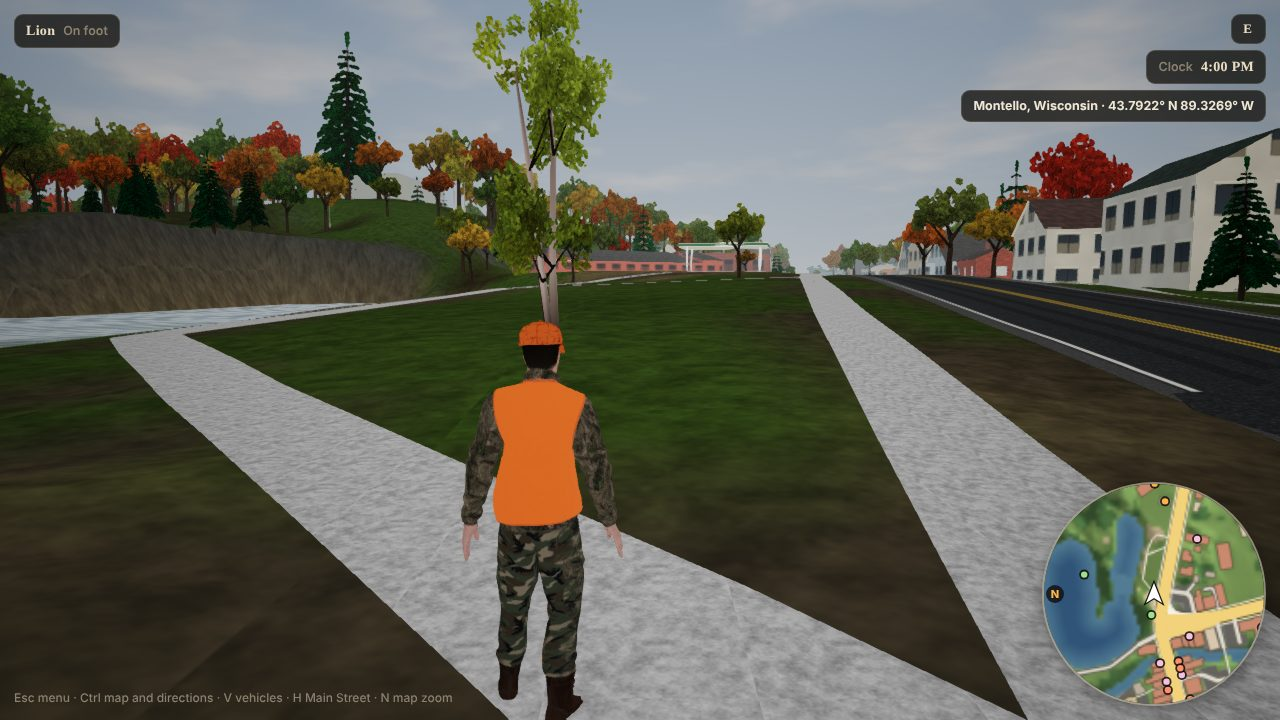
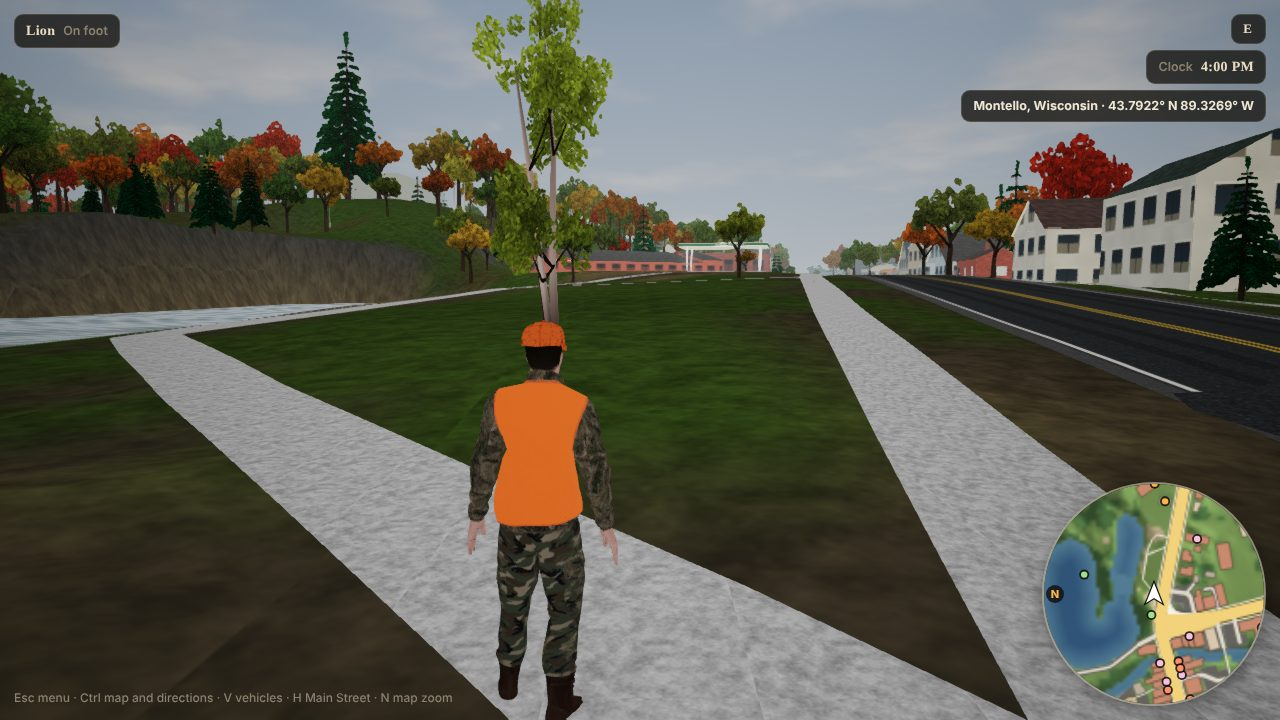
Tello: follow Fox Lake's current lighting and the gloss rule
Fox Lake's look, shadow map size and woods-floor colours move to
modules-src/foxlake/look.ts and Tello imports them, so a lighting change to
Fox Lake reaches Tello without a copy. Tello's ground, road and bridge
materials get the ground lift and lose their specular highlight.

Claude-Session: https://claude.ai/code/session_019DwUj9yzvg9tR1iyVtTF4G

diff --git a/modules-src/tello/index.ts b/modules-src/tello/index.ts
@@ -8,6 +8,7 @@ import { Game } from '../rackreel/game/Game'
 import { store } from '../maplestreet/src/core/Storage'
 import { isValidVehicleRecord, registerCustomVehicles, type CustomVehicleRecord } from '../maplestreet/shared/CustomVehicles'
 import { BUNDLED_VEHICLES } from '../maplestreet/shared/BundledVehicles'
+import { FOX_LAKE_LOOK, FOX_LAKE_SHADOW_MAP } from '../foxlake/look'
 import { loadMap } from './data/MapData'
 import { TelloLand, TelloTerrain } from './region'
 import { TelloTown } from './town/TelloTown'
@@ -17,11 +18,6 @@ declare global {
     __tello?: { game: Game; town: TelloTown; land: TelloLand }
   }
 }
-
-/** Fox Lake's picture: light sun shadows, shaded sides lifted by a stronger sky fill, a night 15 % brighter, and matte characters. */
-const LOOK = { shadowDarkness: 0.9, fill: 1.4, nightBrightness: 1.15, matteCharacters: true }
-/** Half Rack & Reel's shadow map, as in Fox Lake: a town has far more casters, and the soft shadows hide the coarser texels. */
-const SHADOW_MAP = 1024
 
 const online = location.protocol === 'https:' || location.protocol === 'http:'
 const BUNDLED_IDS = new Set(BUNDLED_VEHICLES.map((r) => r.id))
@@ -56,7 +52,7 @@ async function boot(): Promise<void> {
   const [map] = await Promise.all([loadMap(new URL('./tello/', location.href).href), registerVehicles()])
   const land = new TelloLand(map.doc, map.grids)
   const town = new TelloTown(land)
-  const game = new Game(canvas, { terrain: new TelloTerrain(land), extension: town, gearAtCabin: true, profile: 'tello', look: LOOK, shadowMapSize: SHADOW_MAP })
+  const game = new Game(canvas, { terrain: new TelloTerrain(land), extension: town, gearAtCabin: true, profile: 'tello', look: FOX_LAKE_LOOK, shadowMapSize: FOX_LAKE_SHADOW_MAP })
   window.__tello = { game, town, land }
   await game.start()
 }

diff --git a/modules-src/foxlake/index.ts b/modules-src/foxlake/index.ts
@@ -12,6 +12,7 @@ import { store } from '../maplestreet/src/core/Storage'
 import { isValidVehicleRecord, registerCustomVehicles, type CustomVehicleRecord } from '../maplestreet/shared/CustomVehicles'
 import { isValidRecord, registerCustomItems, type CustomItemRecord } from '../maplestreet/shared/CustomItems'
 import { BUNDLED_VEHICLES } from '../maplestreet/shared/BundledVehicles'
+import { FOX_LAKE_LOOK, FOX_LAKE_SHADOW_MAP } from './look'
 import { FOX_LAKE_SHAPE } from './region'
 import { FoxLakeTown } from './town/FoxLakeTown'
 
@@ -20,19 +21,6 @@ declare global {
     __foxlake?: { game: Game; town: FoxLakeTown }
   }
 }
-
-/**
- * A soft, even picture: a gentler sun with a stronger sky fill, so lit and shaded sides sit close together and nothing
- * falls into murk; very faint sun shadows (0.979: 30 % of the earlier 0.93's strength); a night about 32 % brighter
- * than Rack & Reel's (1.15 × 1.15); and matte characters in their own colours (plain materials, not the physically
- * based cloth, which washed people out to grey under the town's sky light).
- * The ground and roads get a share of their own colour back (`groundLift`), so the dark needle-and-moss floor under
- * the woods, slopes facing away from the sun and the ground at night never fall to a burnt-looking black.
- * All of it is light levels, so it costs no draw calls, textures or shadow passes.
- */
-const FOX_LAKE_LOOK = { shadowDarkness: 0.979, key: 0.8, fill: 1.65, nightBrightness: 1.32, matteCharacters: true, groundLift: { day: 0.22, night: 0.3 } }
-/** Half Rack & Reel's shadow map: the town has far more casters, and the soft blurred shadows hide the coarser texels. */
-const FOX_LAKE_SHADOW_MAP = 1024
 
 const online = location.protocol === 'https:' || location.protocol === 'http:'
 

diff --git a/modules-src/foxlake/look.ts b/modules-src/foxlake/look.ts
@@ -1,0 +1,19 @@
+/**
+ * Fox Lake's picture, kept in one file so worlds built on the same engine (Tello) follow it without a copy.
+ */
+
+/**
+ * A soft, even picture: a gentler sun with a stronger sky fill, so lit and shaded sides sit close together and nothing
+ * falls into murk; very faint sun shadows (0.979: 30 % of the earlier 0.93's strength); a night about 32 % brighter
+ * than Rack & Reel's (1.15 × 1.15); and matte characters in their own colours (plain materials, not the physically
+ * based cloth, which washed people out to grey under the town's sky light).
+ * The ground and roads get a share of their own colour back (`groundLift`), so the dark needle-and-moss floor under
+ * the woods, slopes facing away from the sun and the ground at night never fall to a burnt-looking black.
+ * All of it is light levels, so it costs no draw calls, textures or shadow passes.
+ */
+export const FOX_LAKE_LOOK = { shadowDarkness: 0.979, key: 0.8, fill: 1.65, nightBrightness: 1.32, matteCharacters: true, groundLift: { day: 0.22, night: 0.3 } }
+/** Half Rack & Reel's shadow map: the town has far more casters, and the soft blurred shadows hide the coarser texels. */
+export const FOX_LAKE_SHADOW_MAP = 1024
+
+/** A lighter needle-and-leaf-litter floor than the lake country's own, so the ground under the woods reads as forest floor, not scorched earth. */
+export const FOX_LAKE_WOODS_FLOOR = { needles: [0.47, 0.4, 0.27], moss: [0.37, 0.44, 0.22] }

diff --git a/modules-src/tello/world/Ground.ts b/modules-src/tello/world/Ground.ts
@@ -11,6 +11,7 @@ import { StandardMaterial } from '@babylonjs/core/Materials/standardMaterial'
 import { Mesh } from '@babylonjs/core/Meshes/mesh'
 import { VertexData } from '@babylonjs/core/Meshes/mesh.vertexData'
 import type { Scene } from '@babylonjs/core/scene'
+import { FOX_LAKE_WOODS_FLOOR } from '../../foxlake/look'
 import { fbm } from '../../rackreel/world/Terrain'
 import { detailTexture } from '../../rackreel/world/World'
 import { COVER } from '../data/MapData'
@@ -23,8 +24,9 @@ const mown: Rgb = [0.36, 0.47, 0.2]
 const meadow: Rgb = [0.42, 0.47, 0.22]
 const dry: Rgb = [0.56, 0.52, 0.3]
 const stubble: Rgb = [0.62, 0.56, 0.36]
-const needles: Rgb = [0.33, 0.27, 0.17]
-const moss: Rgb = [0.25, 0.32, 0.14]
+const rgb = (c: readonly number[]): Rgb => [c[0], c[1], c[2]]
+const needles = rgb(FOX_LAKE_WOODS_FLOOR.needles)
+const moss = rgb(FOX_LAKE_WOODS_FLOOR.moss)
 const marsh: Rgb = [0.36, 0.38, 0.2]
 const sand: Rgb = [0.62, 0.55, 0.42]
 const lakebed: Rgb = [0.36, 0.32, 0.22]
@@ -75,7 +77,7 @@ export function groundSink(clear: number): number {
 export function buildGround(scene: Scene, land: TelloLand): Mesh[] {
   const mat = new StandardMaterial('tello-ground-mat', scene)
   mat.diffuseTexture = detailTexture(scene)
-  mat.specularColor = new Color3(0.02, 0.02, 0.02)
+  mat.specularColor = Color3.Black()
   mat.ambientColor = new Color3(0.4, 0.4, 0.4)
   mat.freeze()
   const out: Mesh[] = []

diff --git a/modules-src/foxlake/region.ts b/modules-src/foxlake/region.ts
@@ -19,6 +19,7 @@ import type { OutsideLand, TerrainShape } from '../rackreel/world/Terrain'
 import { MAP_BOUNDS, WORLD_HALF } from '../maplestreet/shared/WorldLayout'
 import { HIGHWAY_GAPS, LAKE_ROAD_APRON, carveLakeRoad, lakeRoadPath } from './country/Roads'
 import { ROADSIDE, lotRect } from './roadside/RoadsideLayout'
+import { FOX_LAKE_WOODS_FLOOR } from './look'
 
 /** Ground level of the town in the scene (above the lake, level with the interstate's north end). */
 export const TOWN_Y = 2
@@ -215,9 +216,6 @@ export const TOWN_LAND: OutsideLand = {
     return rectDistance(x, z, BUILT_UP) > 4 && roadClear(x, z) > 0.8
   },
 }
-
-/** A lighter needle-and-leaf-litter floor than the lake country's own, so the ground under the woods reads as forest floor, not scorched earth. */
-const FOX_LAKE_WOODS_FLOOR = { needles: [0.47, 0.4, 0.27], moss: [0.37, 0.44, 0.22] }
 
 const rawFox = (x: number, z: number) => rawHeight(x, z, FOX_LAKE_SHAPE)
 

diff --git a/modules-src/tello/world/Roads.ts b/modules-src/tello/world/Roads.ts
@@ -35,7 +35,7 @@ function surface(scene: Scene, name: string, texture: Texture, tint?: Color3): S
   const mat = new StandardMaterial(`tello-${name}`, scene)
   mat.diffuseTexture = texture
   if (tint) mat.diffuseColor = tint
-  mat.specularColor = new Color3(0.04, 0.04, 0.04)
+  mat.specularColor = Color3.Black()
   mat.ambientColor = new Color3(0.35, 0.35, 0.35)
   mat.backFaceCulling = false
   mat.zOffset = -2
@@ -251,7 +251,7 @@ export function buildBridges(scene: Scene, land: TelloLand, cast: (mesh: Mesh) =
   const mat = new StandardMaterial('tello-bridge', scene)
   mat.diffuseTexture = detailTexture(scene)
   mat.diffuseColor = new Color3(0.66, 0.65, 0.62)
-  mat.specularColor = new Color3(0.03, 0.03, 0.03)
+  mat.specularColor = Color3.Black()
   mat.ambientColor = new Color3(0.35, 0.35, 0.35)
   mat.backFaceCulling = false
   const data = new VertexData()

diff --git a/modules-src/tello/world/Buildings.ts b/modules-src/tello/world/Buildings.ts
@@ -104,7 +104,7 @@ export function buildBuildings(root: TransformNode, mats: Mats, physics: Physics
     door: mats.textured('door', 'planks', { color: 0x6b4a2e, tile: 1 }),
     garage: mats.textured('garage', 'garage', { color: 0xf0eee8 }),
     glass: mats.glass('glass-house', 0xa9c3d1, 0.38),
-    lit: mats.plain('t-window-lit', { color: 0x38424b, gloss: 0.8, emissive: 0xffc98a, emissiveIntensity: 0 }),
+    lit: mats.plain('t-window-lit', { color: 0x38424b, gloss: 0.8, keepGloss: true, emissive: 0xffc98a, emissiveIntensity: 0 }),
     store: mats.facade('store'),
     civic: mats.facade('brick'),
     post: mats.plain('t-post', { color: 0xe6e6e2, gloss: 0.45 }),

diff --git a/modules-src/rackreel/world/Lighting.ts b/modules-src/rackreel/world/Lighting.ts
@@ -52,7 +52,7 @@ export interface LightingLook {
   groundLift?: { day: number; night: number }
 }
 
-const GROUND_MATERIAL = /^(terrain-mat|town-ground-mat|county-road-mat|highway-road-mat|highway-concrete-mat)$/
+const GROUND_MATERIAL = /^(terrain-mat|town-ground-mat|county-road-mat|highway-road-mat|highway-concrete-mat|tello-.+)$/
 
 function smooth(e0: number, e1: number, x: number): number {
   const t = Math.min(1, Math.max(0, (x - e0) / (e1 - e0)))

diff --git a/AGENTS.md b/AGENTS.md
@@ -53,7 +53,7 @@ TanStack Start / React 19 site on Cloudflare Workers with four areas: a creative
 - Fox Plains (`public/modules/maplestreet.html`, module id `maplestreet`) is generated: edit the TypeScript in `modules-src/maplestreet/` (`src/` client, `shared/` rules, `colyseus-server/` optional Node room); `pnpm build` rebuilds it with the other modules. It uses the bundled three.js WebGPU build (WebGL2 fallback) and Rapier 0.14 compat. There is no start screen: the page goes straight into the shared open world under the library username, or a fixed `Guest-xxxxx` for this browser (`?solo=1` still runs solo mode with unlimited money, `unlimitedMoney`). Everyone starts with the bundled Maple Hauler pickup (`STARTER_TRUCK` in `shared/Economy.ts`). Performance: static colliders are streamed around the player (`Physics.stream`), static content is batched per material with plain finishes folded into one vertex-colored node material (`src/core/Merge.ts`), and `Engine.adapt` lowers the pixel ratio only when frames run slow; see the Performance section of `modules-src/maplestreet/README.md`. Characters are made once in the wardrobe panel on arrival (male/female is final); after that clothes only change at Maple Threads (`keepOutfit`, enforced by `RoomLogic`). Lawns store per-cell cut time and blade lean (`shared/Mowing.ts`): grass regrows over five in-game days, stripes are view-dependent lean that fades with growth, and diagonal passes over older stripes make diamond patterns. To reset everyone, bump `WORLD_GENERATION` in `shared/WorldServer.ts` (now `g2:`). `shared/RoomLogic.ts` is the single authority (lot ownership, build validation incl. batched `builds` gestures, money, $50,000 loan cap, mowing pay, deliveries, shops, fuel, needs and home-item use). The default mode is one persistent shared world: `/api/maplestreet` (`src/server/routes/maplestreet.ts`, members by session, guests by a zod-checked key) upgrades to the Durable Object `MapleStreetWorld` (`src/server/maplestreet-world.ts`, binding `MAPLE_WORLD`), which runs `shared/WorldServer.ts` and saves to the D1 table `maplestreet_world`. The same logic also runs in the page for solo play (also the fallback when the world can't be reached) and in the optional, unused Colyseus server. Admin-published Buy items (`shared/CustomItems.ts`, catalog ids `custom:<uuid>`) are registered into `CATALOG` by the Durable Object before it loads the world and by `src/build/CustomModels.ts` before the page starts any mode, so every authority validates and prices them; retired items stay valid but leave the Buy catalog. Vehicles are data-driven the same way: `shared/Vehicles.ts` holds built-in tuning and the `TUNING` registry (`VehicleKind` is a built-in name or `custom:<uuid>`), and admin-published vehicles (`shared/CustomVehicles.ts`, plus the bundled ones in `shared/BundledVehicles.ts` with models in `public/modules/maplestreet/vehicles/`, which every registration includes) are registered by the Durable Object and by `src/physics/CustomVehicleModels.ts` before anything loads; `normalizeAccount` keeps `custom:` garage entries. `shared/VehicleDrive.ts` turns top speed and 0–60 targets into engine numbers that match the physics, and `?vehicleTest=1` (`src/game/VehicleTestDrive.ts`) is the editor's test drive. Town layout (60 grid lots on ten residential streets, plus 20 mixed-size lots up to 60 × 60 m on the curved Willow Bend streets west of West Ave (`CURVES`, `curveDistance`; prices from `lotPrice`), roads, downtown shops, the fire and police stations behind downtown, gas station) is `shared/WorldLayout.ts`, and the downtown grid east of Market Ave (twelve blocks, about 90 scenery buildings, the Maple Commons town square in `src/world/TownSquare.ts`) is `shared/DowntownGrid.ts`; starter houses `shared/Seed.ts` (28 simulated neighbors, upgraded once per `SEED_VERSION` without touching player lots) built from the plans in `shared/HousePlans.ts`; sidewalks `residentialSidewalks()` in `shared/WorldLayout.ts`; the developer instance (`?dev=1`, a private solo save that loads the admin's drafts) `src/core/DevMode.ts`, with its F8 panel `src/game/DevPanel.ts` (for the admin, the site's Developer Panel button above the frame loads `?dev=1&solo=1&panel=1` and then toggles the panel with a same-origin `{type:'tl-dev-panel'}` message); simulated neighbors `shared/Npc.ts`; Sims-style build/buy tools `src/build/BuildController.ts` with the catalog in `shared/Catalog.ts` and models in `src/build/Furniture.ts`; downtown `src/world/Downtown.ts`; instanced grass `src/world/Grass.ts`; HUD, town map and minimap (street route to the current delivery stop) `src/game/Hud.ts`, `src/game/PlotMap.ts` and `src/game/MiniMap.ts`. Each owned car's look is stored per vehicle kind in `Account.cars` (`shared/Cars.ts`: paint color and gloss/metallic/matte finish, filled with the factory paint by `normalizeAccount`); Maple Motors shows a paint picker before buying (`buy` carries `car`), and the authority stamps the owner's `style` onto vehicle snapshots so neighbors see the same paint, while `Vehicle.restyle` and `RemoteEntities` repaint in place when it changes. Published vehicles whose paint mode is `none` aren't `paintable` and skip the picker. Crash damage: `Vehicle` flags a hit when its horizontal velocity changes by more than `CRASH_MIN_DV` (4 m/s) in one physics step (teleports, resets and hitching call `quiet()` first) and the client sends `crash` with the speed change and the struck chassis point; `RoomLogic` applies it only to an owned car the player has out (at most every 400 ms), adding `damage` and a dent (`addCrash`). Damage costs engine power and grip (`conditionEffects`) and dulls the paint, until it's repaired at Maple Body & Wheel (`shared/BodyShop.ts`, building `src/world/BodyShop.ts`, window `src/game/BodyShopUI.ts`): a three-bay garage on Commerce St east of the police station where a player parks an owned car in a bay, walks up and presses E for repairs, paint, window tint (built-in vehicles), rims (`buildStyledWheel`), lift and lowering kits (suspension rest length, bigger tires from +2) and performance parts; the client sends `service` and `RoomLogic` checks the car is in a bay, prices the order with `quote` and applies it to `Account.cars` (`tuneEffects` turns it into engine, top speed, brake, grip, lift and tire-size multipliers that `Vehicle.setCar` applies), dents are pressed into the body mesh by `src/physics/Dents.ts`, and both travel in the snapshot `style` so neighbors see them. New neighbors start with $105,000. Vehicles are original designs; keep brand names and logos out. `modules-src/` is excluded from `tsconfig.json`. Player avatars are the scanned male/female models in `public/modules/maplestreet/` (chosen once in the character creator), recolored by `src/avatar/AvatarMaterial.ts`; the wardrobe (C) and the Maple Threads clothing shop use `shared/Wardrobe.ts`. Details are in `modules-src/maplestreet/README.md`.
 - The Hood (`modules-src/hood/`, module id `hood`) is a shared street of player-owned houses on `engine/` (three.js WebGPU, WebGL2 fallback). The street view and each lot are separate scenes, so only one detailed lot is loaded at a time. Members move one household in, build rooms, walls, doors, windows and floors, design the exterior (`shared/Style.ts`: two-tone cladding with brick or stone wainscots, trim, shutters, window grids, doors, lanterns, hip/gable/flat roofs in four roofings, plus canopies, porch roofs, pergolas, fences with gates and chimneys), furnish from `shared/Catalog.ts` plus `shared/CatalogMore.ts` (141 items in eleven categories, models in `src/models/Furniture.ts` and `src/models/FurnitureMore.ts`), and look after up to eight residents with six needs, utility-AI autonomy, social interactions and freelance work. Families (`shared/Family.ts`): residents are babies, toddlers, children, teens or adults by `age` in sim days on the household clock and grow up as it runs; owners add, rename, restyle and move out residents from the Family panel (`src/ui/FamilyPanel.ts`); two close adult housemates can try for a baby, who is born a sim day later and takes after both parents; only adults work. Anyone on the street can walk into any yard; the inside of a house is only for the household and for visitors the owner lets in at the door while home, and the guest list clears when the owner leaves. Visitors in the yard never receive interior objects, floors or Sims. Both ends of the road hold a working town (`shared/Town.ts`, `shared/TownSim.ts`): police, fire, hospital (EMS and nurses), City Works, a lawn company, a prison, a gas station, a burger restaurant and a resort, each with its own vehicles and staff. The town is a pure function of the street number, the real clock and the street's service calls, so it runs with nobody online and every page draws the same thing; emergencies link the jobs (a fire brings the engine, police and EMS, a patient goes to the nurses, an arrest goes to the guards for booking) and routines do too (lunch runs, fuel stops, the inmate work crew with City Works, the resort shuttle). Residents take one of ten careers (`shared/Jobs.ts`, `shared/Careers.ts`): a shift is real time, tasks and live calls raise performance, pay and promotions follow, and the street sees them at work. Households call services from the lot (police, fire, EMS, burgers, mowing, City Works, a resort day); a responder vehicle drives out and the effect lands when it arrives. Keep the town deterministic (no `Math.random`, no ticking state) and rules in `shared/`. `?solo=1` (and the Practice lot button) runs the same `Room` in the page, unsaved. Residents and furniture are Blender models: `modules-src/hood/tools/build-sim.py` (skinned resident with Feminine/Slim/Broad morph targets, four hair meshes, recolourable slots) and `tools/build-furniture.py` (one node per original catalog id plus the street maple; the newer items in `shared/CatalogMore.ts` use their procedural models) write `assets-src/models/hood/`; run them in Blender, then `pnpm assets` and commit `public/models/hood/`. The Look's `body` (masculine/feminine; older saves infer it from hair) drives the Feminine morph. If the models can't load (or with `?sims=0`/`?props=0`) the procedural figure and furniture are used. Rules live in `modules-src/hood/shared/` (renderer-free, deterministic, tested by `node scripts/hood-tests.mjs`); keep them out of `src/`. Details in `modules-src/hood/README.md`.
 - Fox Lake (`public/modules/foxlake.html`, module id `foxlake`; it replaced Fox Plains 2, and `#module-foxplains2` redirects to it) is one world: the shared Fox Plains town north of Rack & Reel's Bear Paw Lake country, joined by a county road from East Ave to the interstate. It **is** Rack & Reel's `Game` started with `{ terrain: new Terrain(FOX_LAKE_SHAPE), extension: FoxLakeTown, bowfishAnyHour: true }`, so the lake country, the hunter and character creator, fishing, hunting, boats, UTV and quad, Wild Man's carp bowfishing (any hour here), wildlife, records and the hunting party are Rack & Reel's own code; never fork them into `modules-src/foxlake/`. The scene uses Rack & Reel's coordinates; the town keeps the shared world's and hangs under one node that places it north of the square and mirrors z (`region.ts`: `scene = (x - 356, y + 2, 1152 - z)`), so snapshots sent to `/api/maplestreet` stay in town coordinates and classic Fox Plains hides anyone outside its square (`inTownWorld`). The town is built by Fox Plains 2's code, moved to `modules-src/foxlake/fp/` (draws through `setRenderer`/`setHostRoot`; `Town` takes `TownOptions`), lit, shadowed and fogged by Rack & Reel's renderer (`town/TownGfx.ts`: casters to the cached shadow layer by cell, a sky environment cube for its PBR), its trees planted as Rack & Reel foliage (`Foliage.plantTrees`) and its ground laid Rack & Reel's way (`town/TownGround.ts`). Your Fox Plains vehicles are the same Rapier cars (`fp/physics/`) driven through Rack & Reel's `VehicleController.addExternal` (`town/Cars.ts`); the lake country is a Rapier heightfield so cars can drive out to the lake. Neighbors are drawn as Rack & Reel hunters (`town/Neighbors.ts`). Far town cells and far lake stands are switched off (`core/RegionCuller.ts`). Rack & Reel's hooks for host worlds are in `game/Game.ts` (`GameExtension`, `GameHost`, `GameOptions`), `world/Terrain.ts` (`TerrainShape`, `OutsideLand`, `inBounds`, `confine`), `world/Foliage.ts` (`plantTrees`, `hostCasters`), `world/FoliagePlacement.ts` (grass only where `outside.grassAt` allows) and `systems/VehicleController.ts` (`ExternalDriver`, `obstacle`); standalone Rack & Reel passes none of them and is unchanged. `scripts/foxlake-capture.mjs` takes screenshots, frame times and a town ↔ lake leak check. Fox Lake starts Rack & Reel with `gearAtCabin` (rod and rifle taken and swapped only at the cabin's gear rack). It has the Northwoods Lodge Casino & Bar on East Ave and South St (`modules-src/foxlake/casino/`): ten video slots in five researched game styles with original themes, blackjack and a bar; the maths is renderer-free (`casino/math/`, simulator `scripts/casino-sim.mjs`, tests in `modules-src/foxlake/tests/casino.test.ts`), reels and features are animated with Babylon `AnimationGroup`s, and `/api/casino` (`src/server/routes/casino.ts`, D1 `casino_tables` and `casino_machine_state`, migration 0034) decides spins and hands and pays the shared wallet; guests play for fun money. Scanned vehicle bodies get clear glass from `fp/physics/ScanGlass.ts` (the shared `maplestreet/shared/WindowDetect.ts` detector with speck dropping and hole filling, or the vehicle's traced `glass`); the F8 developer panel's Trace windows (`dev/WindowTrace.ts`) lets the administrator lasso the glass on the nearest scanned vehicle (Add/Remove, undo, tidy, clear, start from automatic) and save it for everyone. Details in `modules-src/foxlake/README.md`; design in `docs/superpowers/specs/2026-11-11-fox-lake-design.md`.
-- Tello (`public/modules/tello.html`, module id `tello`) is Montello, Wisconsin at 1:1 on Fox Lake's engine: Rack & Reel's `Game` started with `{ terrain: new TelloTerrain(land), extension: new TelloTown(land), gearAtCabin: true, profile: 'tello' }` and Fox Lake's look, so the renderer, sky, hunter and animations, grass, trees, water shader, building finishes, Rapier world and vehicles are Rack & Reel's and Fox Lake's own code; never fork them into `modules-src/tello/`. Rack & Reel's lake country stays sealed in its square at the origin with its scenery switched off; Montello sits a whole map width north (`region.ts`: map, scene and town frames; the map centre must stay a multiple of the map size from the origin because `rrWater` reads Tello's depth map through a repeating texture). The map is baked from OpenStreetMap, USGS 3DEP lidar, the 2018 lidar point cloud (each building's roof type, eave and ridge, bridge decks, and every tree with its height), NAIP imagery and Microsoft building footprints by `modules-src/tello/tools/bake_map.py` into `public/modules/tello/montello.bin` and `montello.json`, which are committed; never hand-edit them, and keep the credits on the start card. `TelloLand` (`region.ts`) is renderer-free and is what the tests read (`modules-src/tello/tests/`, `scripts/tello-tests.mjs` in `pnpm test`). Solo only; `/api/rackreel?game=tello` keeps its own character profile (`tello:<user id>`). `scripts/tello-capture.mjs` takes screenshots and frame times. Details in `modules-src/tello/README.md`.
+- Tello (`public/modules/tello.html`, module id `tello`) is Montello, Wisconsin at 1:1 on Fox Lake's engine: Rack & Reel's `Game` started with `{ terrain: new TelloTerrain(land), extension: new TelloTown(land), gearAtCabin: true, profile: 'tello' }` and Fox Lake's look (it imports `FOX_LAKE_LOOK`, the shadow map size and the woods-floor colours from `modules-src/foxlake/look.ts`, so a lighting change to Fox Lake changes Tello too; its ground, road and bridge materials are named `tello-…` so `Lighting`'s ground lift reaches them, and they follow the gloss rule), so the renderer, sky, hunter and animations, grass, trees, water shader, building finishes, Rapier world and vehicles are Rack & Reel's and Fox Lake's own code; never fork them into `modules-src/tello/`. Rack & Reel's lake country stays sealed in its square at the origin with its scenery switched off; Montello sits a whole map width north (`region.ts`: map, scene and town frames; the map centre must stay a multiple of the map size from the origin because `rrWater` reads Tello's depth map through a repeating texture). The map is baked from OpenStreetMap, USGS 3DEP lidar, the 2018 lidar point cloud (each building's roof type, eave and ridge, bridge decks, and every tree with its height), NAIP imagery and Microsoft building footprints by `modules-src/tello/tools/bake_map.py` into `public/modules/tello/montello.bin` and `montello.json`, which are committed; never hand-edit them, and keep the credits on the start card. `TelloLand` (`region.ts`) is renderer-free and is what the tests read (`modules-src/tello/tests/`, `scripts/tello-tests.mjs` in `pnpm test`). Solo only; `/api/rackreel?game=tello` keeps its own character profile (`tello:<user id>`). `scripts/tello-capture.mjs` takes screenshots and frame times. Details in `modules-src/tello/README.md`.
 - Kestrel County (`modules-src/county/`, module id `county`, in `src/lib/modules.ts`) is a separate 4 × 4 km PlayCanvas world planned with an airport, flyable helicopters, Fox Plains' driving physics and mowing, in a glossy realistic-clipart style: real-world proportions, modelled detail, bevelled edges, vertex-coloured finishes from `src/style/Kit.ts`, Neutral tone mapping, and no blocky or balloony shapes. Phase 1 streams the county in 256 m chunks (`src/world/Chunks.ts`, heights from a worker) with graded terrain (`shared/Terrain.ts`) and a road network generated from `shared/Layout.ts` by `shared/Roads.ts`: one cross-section (carriageway, curb, verge, sidewalk), junction curb returns, driveway and ramp curb cuts with aprons, checked by `tests/roads.test.ts` (`scripts/county-tests.mjs` in `pnpm test`). Walking and driving import Fox Plains 2's physics, avatar and camera unchanged, and every built-in, bundled and published Fox Plains vehicle (drafts with `?dev=1`) can be spawned from the F8 developer panel. Phase 2 adds a flyable helicopter and trainer plane: renderer-free flight models (`shared/HeliFlight.ts`, `shared/PlaneFlight.ts`) with Easy and Pro assist (`shared/FlightAssist.ts`) and node tests (`tests/flight.test.ts`), put on Rapier bodies by `src/flight/Flyer.ts`, plus the airport's runway, taxiway, apron and helipads (`shared/Airport.ts`). Phase 3 adds the terminal, tower, hangar and windsock (`src/models/AirportBuildings.ts`) and AI air traffic as a pure function of real time (`shared/AirTraffic.ts`, tested in `tests/traffic.test.ts`, posed by `src/flight/TrafficManager.ts`, with go-arounds when the runway is occupied). `?lookdev=1` keeps the Phase 0 scene. Never fork Fox Plains rules or physics into it. Details in `modules-src/county/README.md`.
 - `src/components/PoolTable.tsx`, `PoolLobby.tsx`, `CueArtwork.tsx`, `src/lib/pool-*.ts`, `src/lib/cue-design.ts`: pool.
 - `src/components/Racing.tsx`, `src/lib/racing.ts`, `server/racing-engine.mjs`: racing. Max Secure Circuit (`#racing`) and Oval Speedway (`#oval`) are separate modules; each mounts `Racing` with `fixedTrack`. Their page styling uses the `--lib-*` site tokens (scoped under `.racing-content`) and the module accent from `modules.ts`.

diff --git a/modules-src/foxlake/README.md b/modules-src/foxlake/README.md
@@ -29,7 +29,7 @@ East Ave (town x = 87) runs south out of town and becomes the county road (`CONN
 ### The town (`fp/`, `town/`)
 
 - `fp/` is Fox Plains 2's Babylon code for the town (it moved here when Fox Lake replaced Fox Plains 2): `world/Town.ts` (roads, sidewalks, driveways, lawns with mowing stripes, lamps, for-sale signs), `world/Downtown.ts` (shops and signs atlas), `world/Houses.ts` (every lot's house from the shared build data), `core/` (mesh building, procedural PBR surfaces, the ground material plugin, glTF assets), `physics/` (Rapier, the Fox Plains raycast cars with the same numbers, parking, vehicle views). Its builders draw through `setRenderer` (any `GfxHost`) and hang their roots under `setHostRoot`.
-- Fox Lake's own picture is `FOX_LAKE_LOOK` in `index.ts`, passed to Rack & Reel as `GameOptions.look` (`LightingLook` in `rackreel/world/Lighting.ts`): very faint sun and moon shadows (darkness 0.979; Rack & Reel's is 0.62), a gentler sun (`key` 0.8) with shaded sides lifted by a 1.65× sky fill, ground bounce and ambient (`fill`), a night about 32 % brighter (`nightBrightness` 1.32; exposure scales with the night amount) and matte characters (plain materials with no specular; the physically based cloth from `setPhysicalCharacters` washed people out to grey and is off). The black, burnt-looking ground came from the dark woods floor and unlit ground at night, not from the shadow map (turning shadows off changed almost nothing), so `groundLift` (0.22 by day, 0.3 at full night) adds a share of their own colour back to the ground and road materials, and `FOX_LAKE_SHAPE.woodsFloor` (`TerrainShape.woodsFloor`, used by `buildGround` and `TownGround.ts`) gives the woods a lighter needle-and-moss floor than the lake country's `WOODS_FLOOR`. Standalone Rack & Reel passes none of it. `FOX_LAKE_SHADOW_MAP` (1024, `GameOptions.shadowMapSize`) halves Rack & Reel's 2048 shadow map, with the blur kernel scaled to match so shadows stay as soft; the town has far more casters than the lake country. Every town material follows the gloss rule in AGENTS.md (`GLOSS_SHARE`, `surfaceGloss`, `ruledRoughness` in `fp/core/Tex.ts`): roads, ground, brick, wood and roofing have no gloss, glossy surfaces get 15 % of their normal gloss, and only water and glass keep theirs; the county roads, lots and interstate are matte too.
+- Fox Lake's own picture is `FOX_LAKE_LOOK` in `look.ts` (shared with Tello), passed to Rack & Reel as `GameOptions.look` (`LightingLook` in `rackreel/world/Lighting.ts`): very faint sun and moon shadows (darkness 0.979; Rack & Reel's is 0.62), a gentler sun (`key` 0.8) with shaded sides lifted by a 1.65× sky fill, ground bounce and ambient (`fill`), a night about 32 % brighter (`nightBrightness` 1.32; exposure scales with the night amount) and matte characters (plain materials with no specular; the physically based cloth from `setPhysicalCharacters` washed people out to grey and is off). The black, burnt-looking ground came from the dark woods floor and unlit ground at night, not from the shadow map (turning shadows off changed almost nothing), so `groundLift` (0.22 by day, 0.3 at full night) adds a share of their own colour back to the ground and road materials, and `FOX_LAKE_SHAPE.woodsFloor` (`TerrainShape.woodsFloor`, used by `buildGround` and `TownGround.ts`) gives the woods a lighter needle-and-moss floor than the lake country's `WOODS_FLOOR`. Standalone Rack & Reel passes none of it. `FOX_LAKE_SHADOW_MAP` (1024, `GameOptions.shadowMapSize`) halves Rack & Reel's 2048 shadow map, with the blur kernel scaled to match so shadows stay as soft; the town has far more casters than the lake country. Every town material follows the gloss rule in AGENTS.md (`GLOSS_SHARE`, `surfaceGloss`, `ruledRoughness` in `fp/core/Tex.ts`): roads, ground, brick, wood and roofing have no gloss, glossy surfaces get 15 % of their normal gloss, and only water and glass keep theirs; the county roads, lots and interstate are matte too.
 - `town/TownGfx.ts` is that host inside Rack & Reel's renderer: static casters (merged shadow proxies) go to Rack & Reel's cached shadow layer by 128 m cell near the player, moving ones (vehicles) to its moving layer through `host.addCaster`; only those within the shadow frame's reach of the player cast (`Game.hostCasters`), and they are marked tight (`ShadowLayers.markTight`) so a car's own shadow on its body is redrawn at the near slack at any distance instead of lagging and jumping, and the town's PBR materials light from an environment cube baked from Rack & Reel's sky.
 - `town/TownGround.ts` lays the ground north of the square the way Rack & Reel lays its own (one vertex-coloured mesh over its detail texture, 4 m apart) and colours it by the lake country's rules (`groundColor`: meadow and dry grass, needles and moss under the woods, gravel shoulders along the roads), so the two places blend instead of changing at the seam. Around town the land rolls (`region.ts` `outsideHeight`: gentle wooded hills up to about 7 m, level in town, on the roads and on the roadside lots, easing in over 75 m); the lake country's open north edge blends to it (`TerrainShape.outsideHeightAt`) and meets it exactly at the edge, and the interstate eases down to the town's ground over its last stretch, so there is no step anywhere at the seam. Rack & Reel's grass grows out there too (`TOWN_LAND.grassAt`, off the town, the roads and the lots). Roads are ribbons in the lake country's asphalt (`roadRibbon`, `countyRoadTexture`: the interstate's grit with white edge lines and a double yellow centre line); trees fill the strip east of town. The town's yard and forest-ring trees are planted as Rack & Reel foliage (`Foliage.plantTrees`) at the spots the town layout picks.
 - `town/Cars.ts`: your vehicles (the starter pickup and trailer, the riding mower, V for the next one you own) are Fox Plains Rapier cars driven through Rack & Reel's `VehicleController` as external vehicles (`addExternal`), so seats, camera, enter and exit, HUD and audio are Rack & Reel's. A stand-in node in scene coordinates follows each car so the hunter sits upright in it.

diff --git a/docs/ENGINE-MAP.md b/docs/ENGINE-MAP.md
@@ -426,6 +426,7 @@ Montello, Wisconsin at 1:1 as a host world on Rack & Reel's game, with Fox Lake'
 Rack & Reel's game with the shared Fox Plains town mounted north of the lake country (details in `modules-src/foxlake/README.md`). Everything that doesn't draw for the town is imported from `modules-src/maplestreet/`; everything for the lake country is Rack & Reel's own code.
 - `modules-src/foxlake/index.html` — page shell (Rack & Reel's, with the town's chips) — `vite.modules.ts` (→ `public/modules/foxlake.html`).
 - `index.ts` — boot: username or guest name, published vehicles and items, then `new Game(canvas, { terrain: new Terrain(FOX_LAKE_SHAPE), extension: FoxLakeTown, bowfishAnyHour })`.
+- `look.ts` — Fox Lake's picture (`FOX_LAKE_LOOK`: sun, sky fill, shadow strength, night brightness, matte characters, ground lift), its shadow map size and woods-floor colours; Tello imports the same constants, so a change here changes both worlds.
 - `region.ts` — scene ↔ town coordinates (town mirrored in z, `TOWN_OFFSET`), heading ↔ town yaw, the open north edge (`FOX_LAKE_SHAPE`, `TOWN_LAND`), the county road (`CONNECTOR`, `connectorPath`), `zoneAt`.
 - `town/FoxLakeTown.ts` — the `GameExtension`: builds the town (`fp/`), physics with the lake country as a heightfield, cars, neighbors, the shared-world link (welcome, snaps, builds, mowing, clock), walker collisions, spawn at home, shops, V garage, H home, culling, HUD.
 - `town/TownGfx.ts` — `GfxHost` for the town builders: casters by cell to Rack & Reel's cached shadow layer (moving ones to its moving layer), sky environment cube for the town's PBR.

diff --git a/modules-src/tello/README.md b/modules-src/tello/README.md
@@ -4,7 +4,7 @@ Source for `public/modules/tello.html`, module id `tello`. Tello is Montello, Wi
 
 ## How it is put together
 
-Tello runs on Fox Lake's engine. `index.ts` starts Rack & Reel's `Game` with `{ terrain: new TelloTerrain(land), extension: new TelloTown(land), gearAtCabin: true, profile: 'tello', look, shadowMapSize }` (the same look and shadow map Fox Lake passes), so these are the same code as Fox Lake and are never forked here:
+Tello runs on Fox Lake's engine. `index.ts` starts Rack & Reel's `Game` with `{ terrain: new TelloTerrain(land), extension: new TelloTown(land), gearAtCabin: true, profile: 'tello', look, shadowMapSize }` (`FOX_LAKE_LOOK` and `FOX_LAKE_SHADOW_MAP` imported from `foxlake/look.ts`, so Tello's lighting always matches Fox Lake's), so these are the same code as Fox Lake and are never forked here:
 
 - the renderer, tone mapping, sky, sun and moon, fog and cached shadows (`rackreel/core`, `rackreel/world/Lighting.ts`)
 - the skinned hunter, his animations, the character creator and wardrobe (`rackreel/game/Avatar.ts`)
